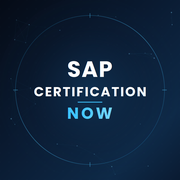
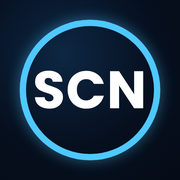
Add files via upload

diff --git a/index.html b/index.html
@@ -3,6 +3,13 @@
 <head>
 <meta charset="utf-8">
 <meta name="viewport" content="width=device-width, initial-scale=1.0">
+<link rel="icon" href="/favicon.ico" sizes="any">
+<link rel="icon" type="image/png" sizes="16x16" href="/favicon-16x16.png">
+<link rel="icon" type="image/png" sizes="32x32" href="/favicon-32x32.png">
+<link rel="icon" type="image/png" sizes="48x48" href="/favicon-48x48.png">
+<link rel="apple-touch-icon" sizes="180x180" href="/apple-touch-icon.png">
+<link rel="manifest" href="/site.webmanifest">
+<meta name="theme-color" content="#0d2743">
 <title>SAP Spend Management & Autonomous Enterprise Certification Guides (C_BCSPM / C_BCSBS) | SAP Certification Now</title>
 <meta name="description" content="Compare three SAP Spend Management &amp; Autonomous Enterprise certification guides — 30 Scenarios, the Extended Edition, and the guide built from real C_BCSBS / C_BCSPM exam transcripts. Buy separately or save 30% with the bundle.">
 <meta name="keywords" content="SAP Spend Management certification, SAP C_BCSPM exam, SAP C_BCSBS exam, C_BCSPM_2502, SAP Scenario-Based Assessment, SAP Autonomous Enterprise, SAP Autonomous Spend, SAP Ariba certification, SAP Fieldglass certification, SAP Concur certification, how to pass SAP C_BCSPM, SAP C_BCFIN, SAP C_BCSBN, SAP C_BCSCX, SAP C_BCSSS, SAP C_BCBTP, SAP C_BCBDC, SAP C_BCBTM">
